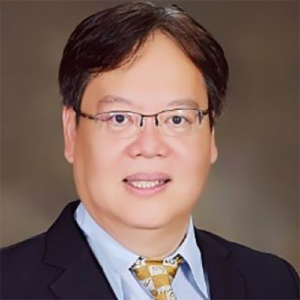
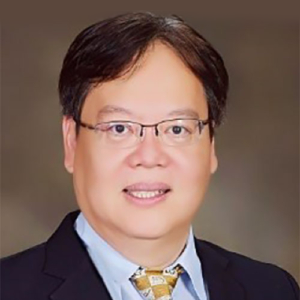
Teams Page Pic Adjust + Wording change in Index

Changed region(s): [[0.0, 0.0, 1.0, 1.0]]

diff --git a/src/pages/index.html b/src/pages/index.html
@@ -26,7 +26,8 @@
             <h1 class="main-title"><b>Redefining AI</b><br>for the Real World</h1>
 
             <div class="questions-showcase" style="background-image: url(../assets/images/globe.png);">
-                <div class="backdrop-gradient"></div>
+                <div class="backdrop-gradient-bottom"></div>
+                <div class="backdrop-gradient-top"></div>
 
                 <div class="question-bubble-container">
                     <div class="question-bubble left-bubble">
@@ -842,7 +843,7 @@
 
         <div class="future-content">
             <p>With PrAIvacy, smart contracts become intelligent bridges-not just code, but verified identity-bound
-                commitments that power secure, decentralized, and frictionless commerce.</p>
+                commitments that power secure, decentralised, and frictionless commerce.</p>
 
             <p>Imagine automated trustless counterparty escrow services that will escalate fresh global business
                 relationships and transactions.</p>

diff --git a/src/assets/css/styles.css b/src/assets/css/styles.css
@@ -607,7 +607,7 @@ nav {
     padding: 40px 20px 0px 20px;
     font-size: clamp(3rem, 8vw, 6.5rem);
     font-weight: normal;
-    margin-bottom: 3rem;
+    /* margin-bottom: 3rem; */
     line-height: 1.1;
     letter-spacing: -0.02em;
     color: var(--text-primary);
@@ -646,7 +646,7 @@ nav {
 
 /* Questions Showcase */
 .questions-showcase {
-    padding: 0 0 4rem 0;
+    padding: 3rem 0 4rem 0;
     max-width: 100%;
     position: relative;
     background-image: url(../assets/images/globe.png);
@@ -657,10 +657,18 @@ nav {
     background-color: var(--bg-primary);
 }
 
-.backdrop-gradient {
+.backdrop-gradient-bottom {
     background: linear-gradient(0deg, var(--bg-primary) 20%, rgb(255 255 255 / 0%) 100%);
     position: absolute;
     bottom: 0px;
+    height: 100px;
+    width: 100%;
+}
+
+.backdrop-gradient-top {
+    background: linear-gradient(180deg, var(--bg-primary) 20%, rgb(255 255 255 / 0%) 100%);
+    position: absolute;
+    top: 0px;
     height: 100px;
     width: 100%;
 }
